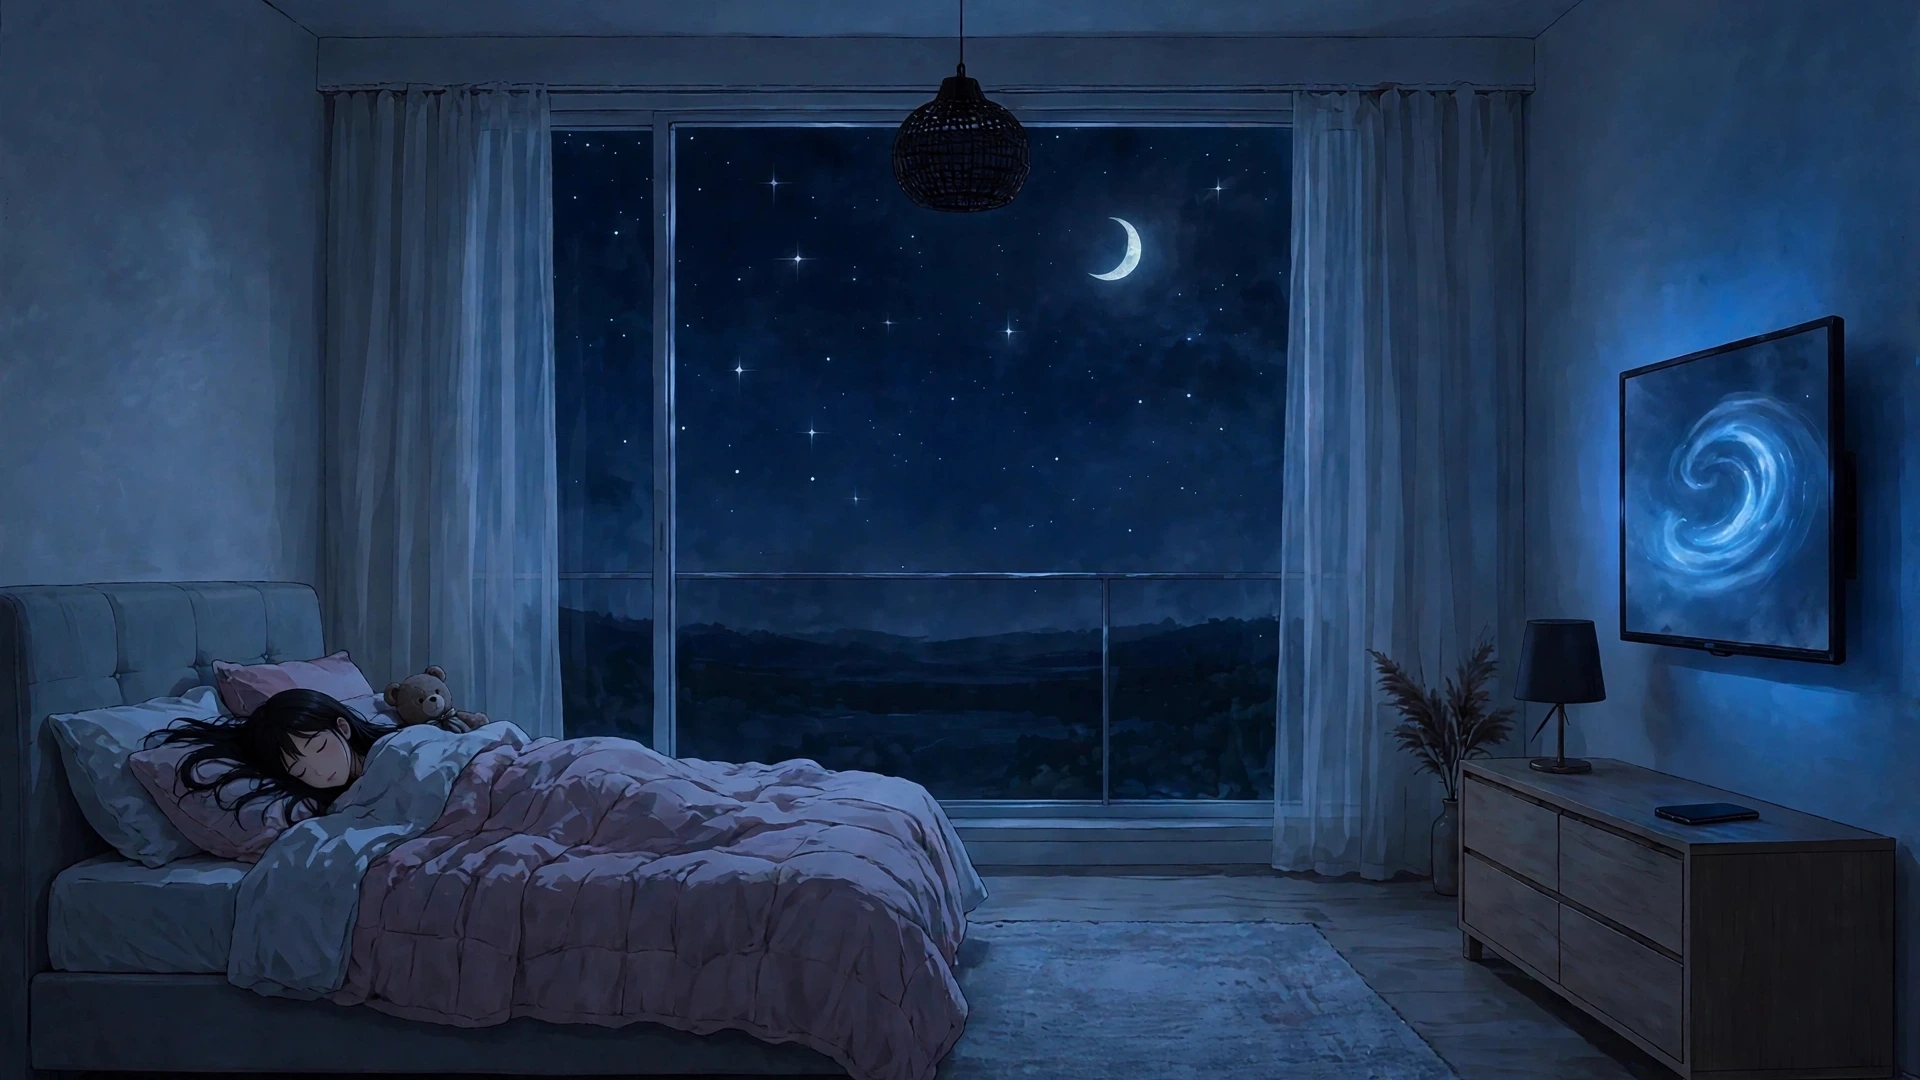
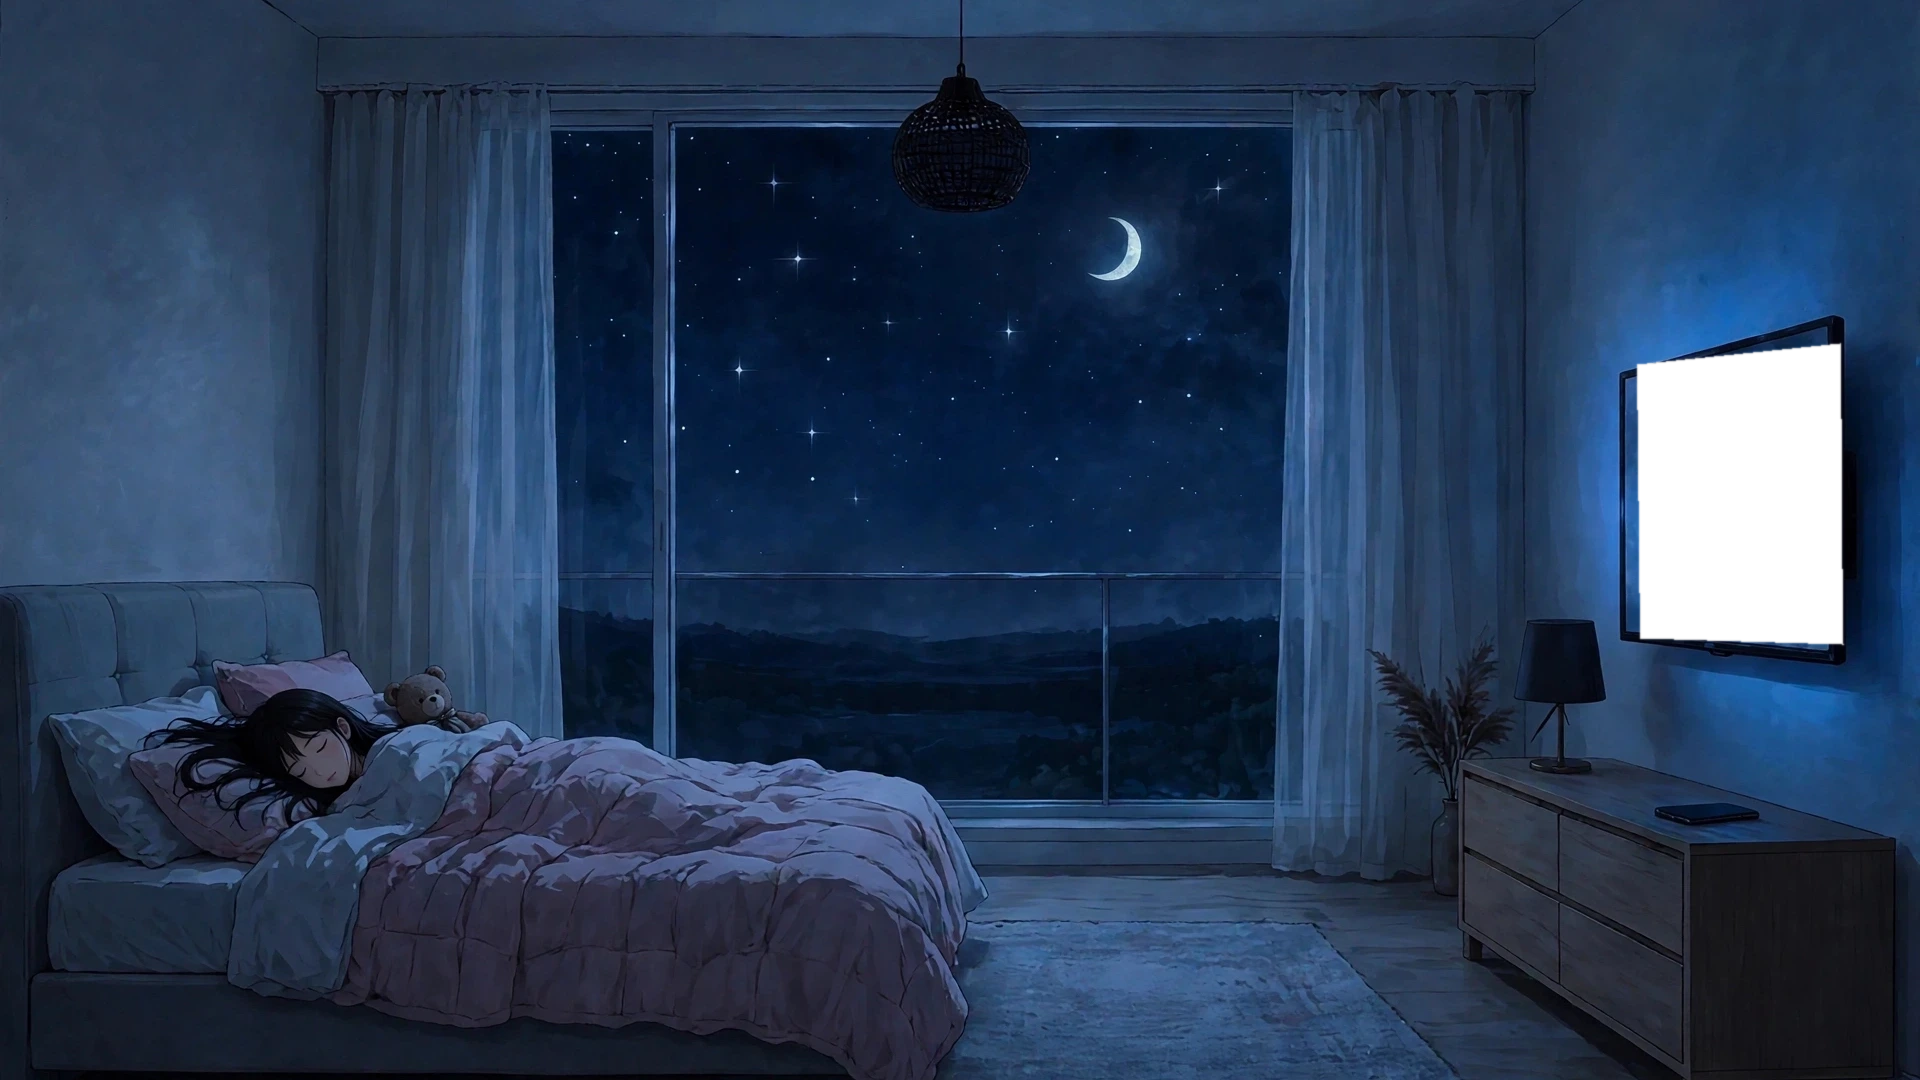
Painted TV becomes a window (2026-11-15, Daniels design, replacing the homography stage): the screen glass is CUT OUT of all three plates on its exact boundary (glass polygon from the bezel line-fit, 2px inside, per-plate registration shifts +2/+3px), and #tvstage now lives BEHIND the plates as the 

Changed region(s): [[0.8438, 0.3056, 0.9688, 0.6111]]

diff --git a/web/index.html b/web/index.html
@@ -18,12 +18,12 @@
 #daywin{left:26%;top:3%;width:41.5%;height:72%;background:radial-gradient(circle at 72% 20%, rgba(255,244,190,.95), rgba(255,244,190,0) 42%),linear-gradient(180deg,#79bfe8 0%,#cfeafb 58%,#a9cba0 100%);opacity:0;transition:opacity 1.5s ease}
 @keyframes sgpulse{0%,100%{opacity:.45}50%{opacity:1}}
 #phonedelta{position:absolute;inset:0;width:100%;height:100%;object-fit:cover;opacity:0;transition:opacity .6s ease}
-#tvstage{position:absolute;left:0;top:0;width:800px;height:450px;transform-origin:0 0;background:radial-gradient(120% 95% at 50% 38%,#16355f 0%,#0a1c3a 58%,#060f24 100%);color:#d8efff;font-family:system-ui,sans-serif;display:flex;flex-direction:column;align-items:center;justify-content:center;pointer-events:none;overflow:hidden}
-#tvstage .tt{font-size:118px;font-weight:600;line-height:1;text-shadow:0 0 22px rgba(90,170,255,.75)}
-#tvstage .ta{font-size:45px;font-weight:500;opacity:.92;margin-top:26px}
+#tvstage{position:absolute;left:83%;top:26.8%;width:15.2%;height:37.6%;background:radial-gradient(120% 95% at 50% 38%,#16355f 0%,#0a1c3a 58%,#060f24 100%);color:#e8f6ff;font-family:system-ui,sans-serif;display:flex;flex-direction:column;align-items:center;justify-content:center;pointer-events:none;transform:perspective(1100px) rotateY(-30deg) rotate(-5deg)}
+#tvstage .tt{font-size:3.1vw;font-weight:600;line-height:1.05;white-space:nowrap}
+#tvstage .ta{font-size:1.25vw;font-weight:500;opacity:.92;margin-top:1.4vh;white-space:nowrap}
 </style>
-<div id="bgwrap"><img id="roombg" src="assets/room2-base.webp" alt=""><img id="roombg-off" src="assets/room2-lightoff.webp" alt=""><img id="roombg-sleep" src="assets/room2-sleep.webp" alt="">
-<div id="daywin"></div><div id="tvstage"><div class="tt"></div><div class="ta"></div></div>
+<div id="bgwrap"><div id="tvstage"><div class="tt"></div><div class="ta"></div></div><img id="roombg" src="assets/room2-base.webp" alt=""><img id="roombg-off" src="assets/room2-lightoff.webp" alt=""><img id="roombg-sleep" src="assets/room2-sleep.webp" alt="">
+<div id="daywin"></div>
 
 <img id="phonedelta" src="assets/room2-phonedelta.webp" alt=""></div>
 <canvas id="c"></canvas>
@@ -239,51 +239,18 @@ setInterval(pollRing, 700); pollRing();
 })();
 </script>
 <script>
-// Painted-TV viewport (2026-11-15, room v2): her TV is a real
-// window, not a sticker -- a stage element perspective-warped
-// (matrix3d homography, recomputed on resize) onto the screen
-// quad measured from the paintings own bezel pixels, so whatever
-// the stage shows sits IN the screen at its exact slant. It no
-// longer tracks the real display state: if the display is off,
-// the room is not visible anyway. Default content: the clock
-// screensaver -- big 12-hour time + next-alarm line. Anything
-// else can be dropped into #tvstage later.
+// Painted-TV window (2026-11-15, room v2, Daniels design): the
+// screen is CUT OUT of all three plates on its exact glass
+// boundary, and #tvstage lives BEHIND the plates as the bottom
+// child of #bgwrap -- a layer seen through the cut, like a
+// window. The painting crops it, so the boundary is exact by
+// construction; the stage itself only carries a single plane
+// tilt matching the wall (CSS transform). No text-shadow: the
+// time stays crisp, the alarm line sits small beneath it.
+// Anything can be dropped into #tvstage later.
 (function(){
   var stage = document.getElementById('tvstage');
   if (!stage) return;
-  var QUAD = [[0.8509, 0.3349], [0.9575, 0.3151], [0.9587, 0.5973], [0.8522, 0.5921]];
-  var SW = 800, SH = 450;
-  function solve(A, b) {
-    var n = b.length;
-    for (var i = 0; i < n; i++) {
-      var piv = i;
-      for (var r = i + 1; r < n; r++) if (Math.abs(A[r][i]) > Math.abs(A[piv][i])) piv = r;
-      var tmp = A[i]; A[i] = A[piv]; A[piv] = tmp;
-      var tb = b[i]; b[i] = b[piv]; b[piv] = tb;
-      for (var r2 = 0; r2 < n; r2++) {
-        if (r2 === i) continue;
-        var f = A[r2][i] / A[i][i];
-        for (var c = i; c < n; c++) A[r2][c] -= f * A[i][c];
-        b[r2] -= f * b[i];
-      }
-    }
-    var x = [];
-    for (var i2 = 0; i2 < n; i2++) x[i2] = b[i2] / A[i2][i2];
-    return x;
-  }
-  function fit() {
-    var w = innerWidth, h = innerHeight;
-    var src = [[0, 0], [SW, 0], [SW, SH], [0, SH]];
-    var dst = QUAD.map(function(q) { return [q[0] * w, q[1] * h]; });
-    var A = [], b = [];
-    for (var i = 0; i < 4; i++) {
-      A.push([src[i][0], src[i][1], 1, 0, 0, 0, -dst[i][0] * src[i][0], -dst[i][0] * src[i][1]]); b.push(dst[i][0]);
-      A.push([0, 0, 0, src[i][0], src[i][1], 1, -dst[i][1] * src[i][0], -dst[i][1] * src[i][1]]); b.push(dst[i][1]);
-    }
-    var H = solve(A, b);
-    stage.style.transform = 'matrix3d(' + [H[0], H[3], 0, H[6], H[1], H[4], 0, H[7], 0, 0, 1, 0, H[2], H[5], 0, 1].join(',') + ')';
-  }
-  fit(); addEventListener('resize', fit);
   var tt = stage.querySelector('.tt'), ta = stage.querySelector('.ta');
   function tick() { tt.textContent = new Date().toLocaleTimeString('en-US', {hour: 'numeric', minute: '2-digit'}); }
   tick(); setInterval(tick, 5000);
